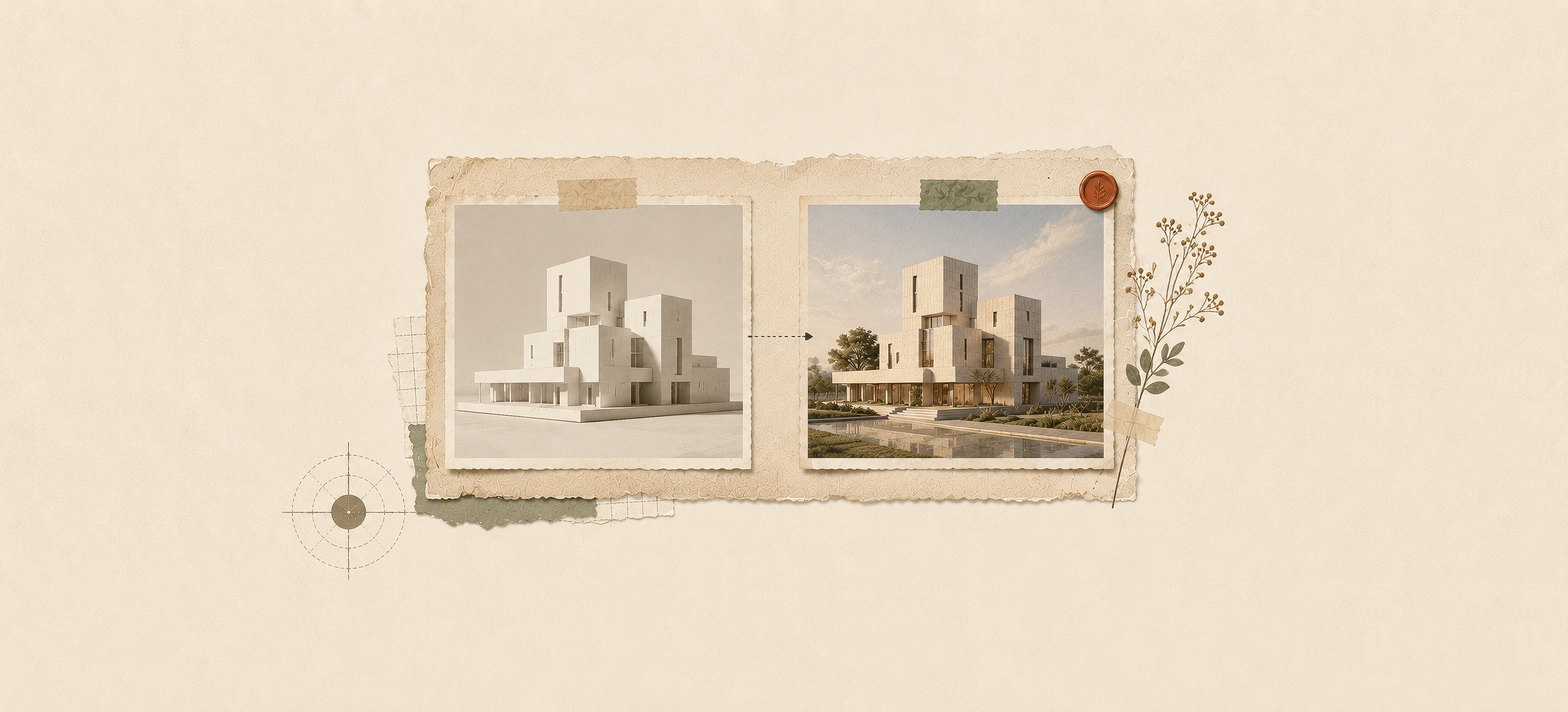
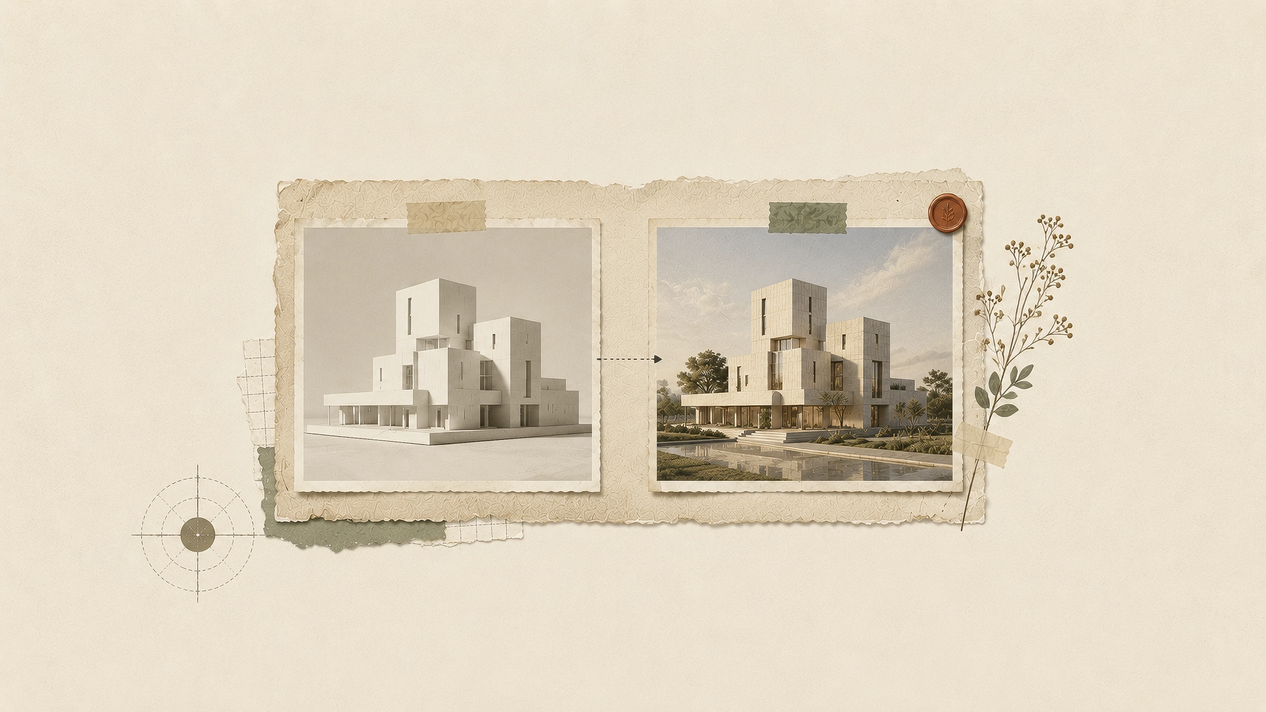
revert(hero): back to v3.2 — 16:9 ratio, 3344x1882 source images, end trigger 40%
v3.4's 2.2:1 recomposed source images and centered (50%) end trigger are
reverted at the author's request. Restored the pre-v3.4 WebPs (byte-
identical to commit d1d9693) and reverted .case-hero's aspect-ratio to
16/9 and HeroClient.tsx's END_VIEWPORT_FRACTION to 0.4.

Verified globals.css and HeroClient.tsx now match commit 474a3a9 (v3.2)
exactly aside from one comment clarifying the trigger-derivation
mechanism in prose. A follow-up swap to ~4140x2582 source images at
1.6/1 is discussed as a possible next step, pending the author's
confirmation -- not implemented here.

Claude-Session: https://claude.ai/code/session_01YaoeMjbquMBVoMujHM9p8m

Changed region(s): [[0.1244, 0.1849, 0.8397, 0.7705]]

diff --git a/app/globals.css b/app/globals.css
@@ -439,7 +439,7 @@
    into that tracking — exactly the trap the old version was built around
    avoiding). Progress now comes from a plain rAF loop keyed off
    window.scrollY, in HeroClient.tsx: trigger positions (scrollY where the
-   hero's center reaches 50% of viewport height, with the start trigger
+   hero's center reaches 40% of viewport height, with the start trigger
    derived backward from a fixed scroll-span fraction) are computed once at
    mount and on resize — never read back from the element's own current,
    possibly mid-animation rect, which would be the same self-tracking
@@ -451,16 +451,10 @@
   width: min(var(--hero-width-start), calc(100vw - 3rem));
   max-width: none; /* override Tailwind preflight's img{max-width:100%} — otherwise it clamps
                        to .prose-works's 672px content box regardless of the width above */
-  /* Source images are now authored at 4140×1882 (2.2:1) specifically for
-     this box — a 16:9 crop, at full viewport width, renders taller than
-     common desktop viewports (e.g. 1905px wide → 1071px tall vs. a
-     953px-tall viewport), clipping the top once the grow animation
-     finishes. 2.2/1 (≈866px tall at 1905px wide) fits inside that viewport
-     with room to spare. */
-  aspect-ratio: 2.2 / 1;
+  aspect-ratio: 16 / 9;
   height: auto;
-  object-fit: cover; /* source ratio is 4140/1882 ≈ 2.1998, not bit-exact 2.2;
-                         this guarantees no stretching from that rounding */
+  object-fit: cover; /* the source is ~16:9 but not bit-exact; this guarantees
+                         no stretching even for the tiny leftover mismatch */
   margin-top: var(--hero-gap-top);
   margin-bottom: var(--figure-gap-block);
   /* NOT margin-inline:auto — confirmed in an earlier round that once a

diff --git a/app/components/mdx/HeroClient.tsx b/app/components/mdx/HeroClient.tsx
@@ -13,9 +13,7 @@ interface HeroClientProps {
 const BASE_RADIUS = 12; // must match .case-hero's border-radius in globals.css
 const HERO_WIDTH_START = 1280; // must match --hero-width-start in globals.css
 const SMOOTHING = 0.08; // ≈ GSAP ScrollTrigger scrub: 0.8
-const END_VIEWPORT_FRACTION = 0.5; // hero center at 50% (vertically centered) of viewport height —
-// with the new 2.2/1 source images this puts the fully-grown hero fully
-// on-screen with air above and below, instead of pushed toward the top
+const END_VIEWPORT_FRACTION = 0.4; // hero center at 40% of viewport height
 const SPAN_VH_FRACTION = 0.3; // scroll span = 30% of viewport height, anchored off the end trigger
 const CONVERGED_THRESHOLD = 0.001;
 
